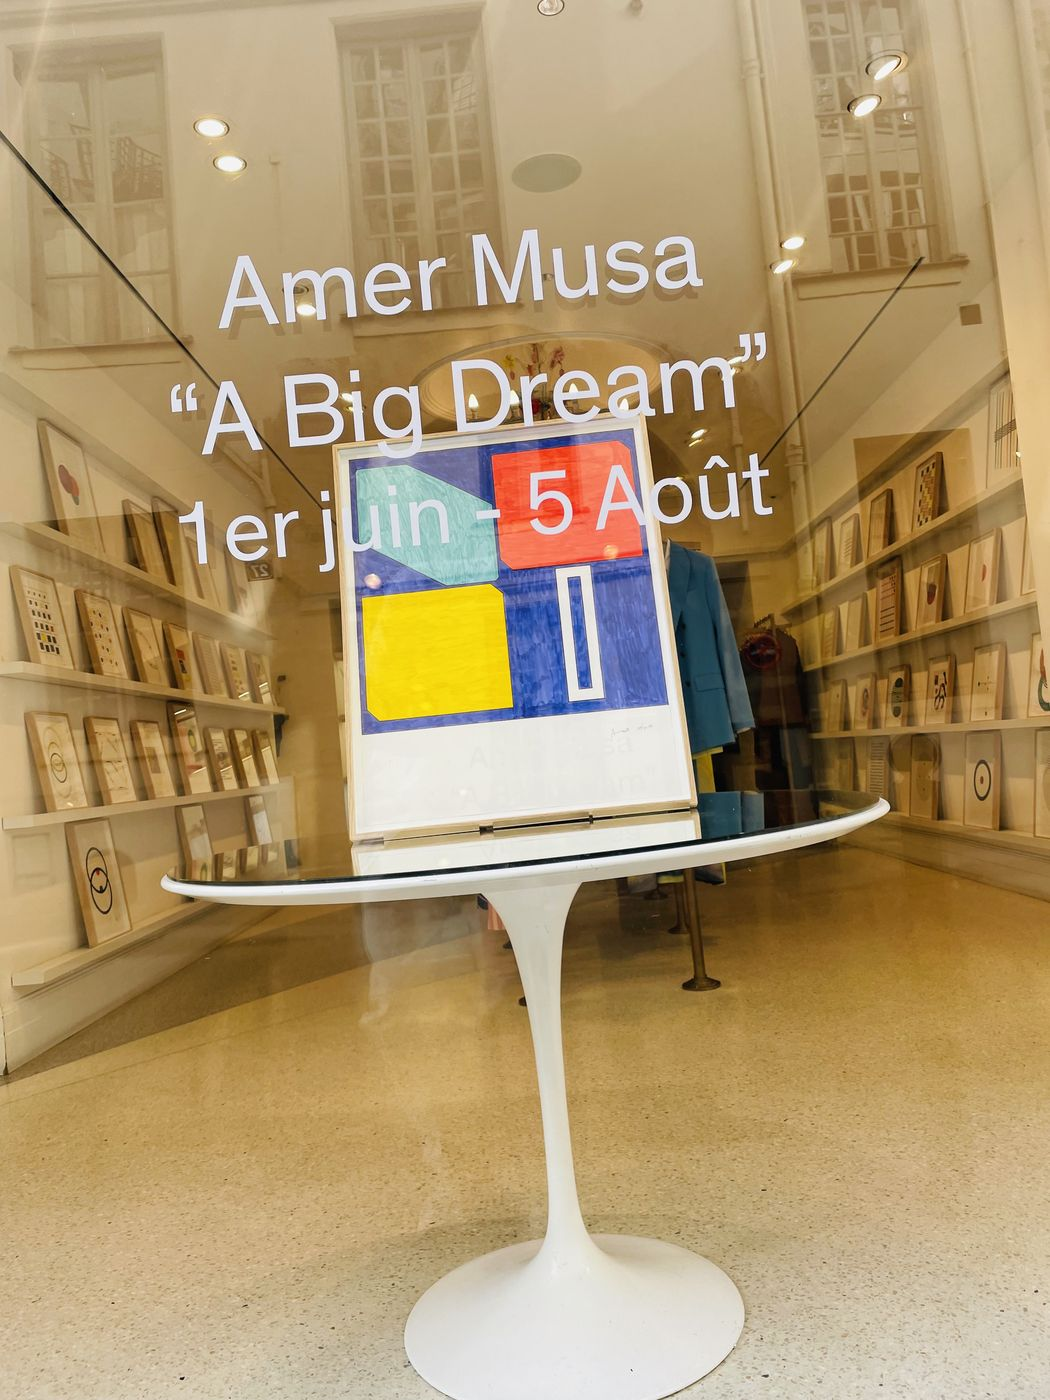
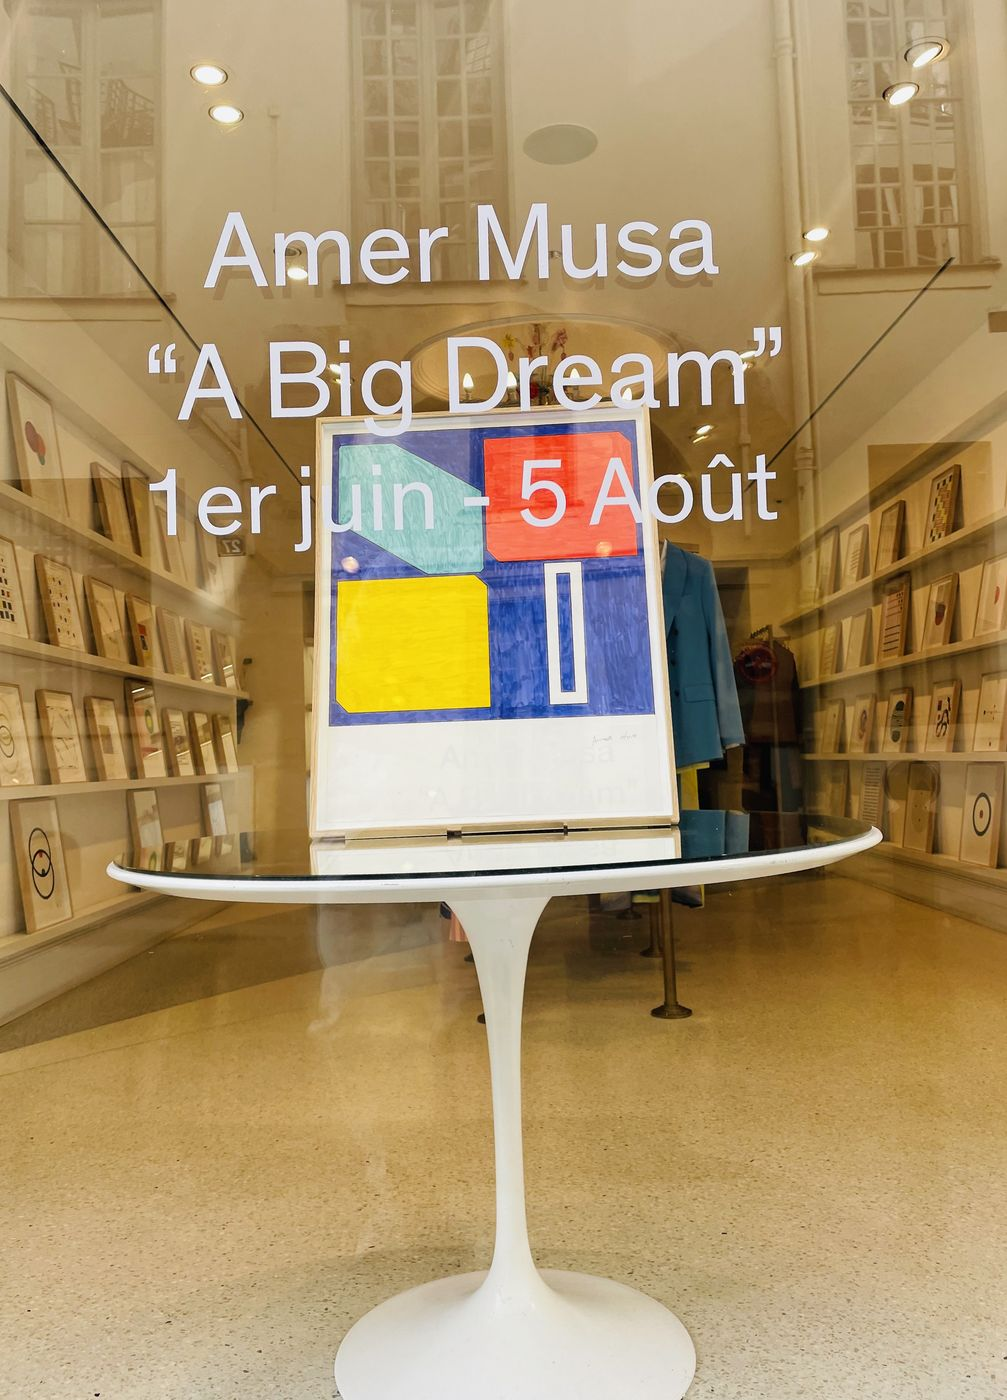
Timeline: straighten A Big Dream window photo

diff --git a/timeline.html b/timeline.html
@@ -182,7 +182,7 @@
         <p class="tl-body"><em>A Big Dream</em> — works shown across two Paul Smith stores in Paris. The drawings enter into conversation with tailoring, colour stripes and the everyday rhythm of the city.</p>
         <figure class="tl-press tl-press-row">
           <div class="tl-press-imgs">
-            <a href="IMAGES/press/paulsmith-2023-window.jpg" target="_blank" rel="noopener"><img src="IMAGES/press/paulsmith-2023-window.jpg" alt="Shop window: Amer Musa, A Big Dream, 1 June – 5 August" width="1050" height="1400" loading="lazy"></a>
+            <a href="IMAGES/press/paulsmith-2023-window.jpg" target="_blank" rel="noopener"><img src="IMAGES/press/paulsmith-2023-window.jpg" alt="Shop window: Amer Musa, A Big Dream, 1 June – 5 August" width="1007" height="1400" loading="lazy"></a>
             <a href="IMAGES/press/paulsmith-2023-shelves.jpg" target="_blank" rel="noopener"><img src="IMAGES/press/paulsmith-2023-shelves.jpg" alt="Drawings on the shelves of the Paul Smith store" width="1050" height="1400" loading="lazy"></a>
             <a href="IMAGES/press/paulsmith-2023-framed.jpg" target="_blank" rel="noopener"><img src="IMAGES/press/paulsmith-2023-framed.jpg" alt="A framed drawing in the Paul Smith store" width="1015" height="1400" loading="lazy"></a>
           </div>
@@ -196,7 +196,7 @@
         <p class="tl-body"><em>A Big Dream</em> — œuvres présentées dans deux boutiques Paul Smith à Paris. Les dessins entrent en dialogue avec la couture, les rayures colorées et le rythme quotidien de la ville.</p>
         <figure class="tl-press tl-press-row">
           <div class="tl-press-imgs">
-            <a href="IMAGES/press/paulsmith-2023-window.jpg" target="_blank" rel="noopener"><img src="IMAGES/press/paulsmith-2023-window.jpg" alt="Vitrine : Amer Musa, A Big Dream, 1er juin – 5 août" width="1050" height="1400" loading="lazy"></a>
+            <a href="IMAGES/press/paulsmith-2023-window.jpg" target="_blank" rel="noopener"><img src="IMAGES/press/paulsmith-2023-window.jpg" alt="Vitrine : Amer Musa, A Big Dream, 1er juin – 5 août" width="1007" height="1400" loading="lazy"></a>
             <a href="IMAGES/press/paulsmith-2023-shelves.jpg" target="_blank" rel="noopener"><img src="IMAGES/press/paulsmith-2023-shelves.jpg" alt="Dessins sur les étagères de la boutique Paul Smith" width="1050" height="1400" loading="lazy"></a>
             <a href="IMAGES/press/paulsmith-2023-framed.jpg" target="_blank" rel="noopener"><img src="IMAGES/press/paulsmith-2023-framed.jpg" alt="Un dessin encadré dans la boutique Paul Smith" width="1015" height="1400" loading="lazy"></a>
           </div>
@@ -210,7 +210,7 @@
         <p class="tl-body"><bdi><em>A Big Dream</em></bdi> — أعمال تُعرض في متجرين لـ Paul Smith في باريس، حيث تدخل الرسومات في حوار مع الأزياء المخيطة والشرائط الملونة وإيقاع المدينة اليومي.</p>
         <figure class="tl-press tl-press-row">
           <div class="tl-press-imgs">
-            <a href="IMAGES/press/paulsmith-2023-window.jpg" target="_blank" rel="noopener"><img src="IMAGES/press/paulsmith-2023-window.jpg" alt="الواجهة: عامر موسى، A Big Dream، 1 يونيو – 5 أغسطس" width="1050" height="1400" loading="lazy"></a>
+            <a href="IMAGES/press/paulsmith-2023-window.jpg" target="_blank" rel="noopener"><img src="IMAGES/press/paulsmith-2023-window.jpg" alt="الواجهة: عامر موسى، A Big Dream، 1 يونيو – 5 أغسطس" width="1007" height="1400" loading="lazy"></a>
             <a href="IMAGES/press/paulsmith-2023-shelves.jpg" target="_blank" rel="noopener"><img src="IMAGES/press/paulsmith-2023-shelves.jpg" alt="رسومات على رفوف متجر Paul Smith" width="1050" height="1400" loading="lazy"></a>
             <a href="IMAGES/press/paulsmith-2023-framed.jpg" target="_blank" rel="noopener"><img src="IMAGES/press/paulsmith-2023-framed.jpg" alt="رسم مؤطّر في متجر Paul Smith" width="1015" height="1400" loading="lazy"></a>
           </div>
